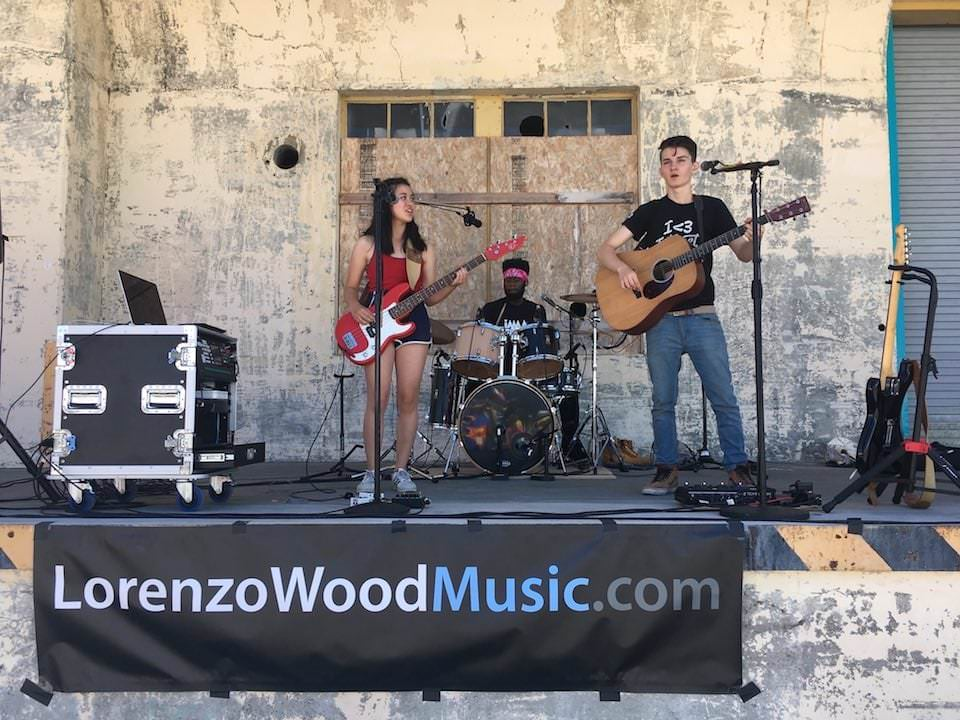
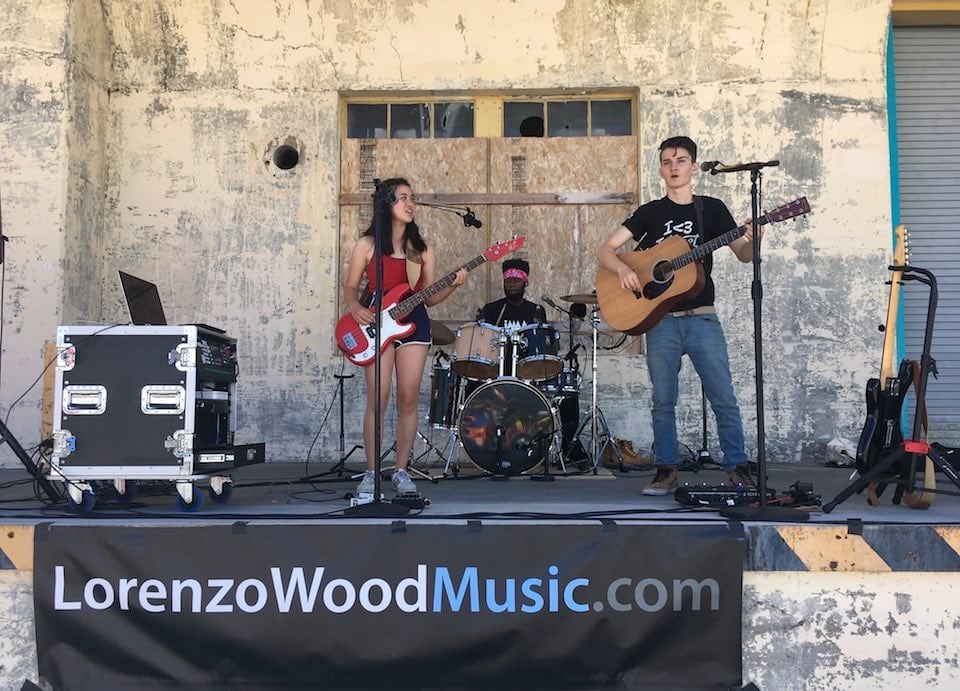
rearrange photos. Crop one of them.

diff --git a/photos/index.html b/photos/index.html
@@ -1,5 +1,5 @@
 <!DOCTYPE html><html class="no-js" lang="en-us"><head><meta charset="utf-8"><!--[if IE]><meta http-equiv='X-UA-Compatible' content='IE=edge'><![endif]--><title>Photos | Lorenzo Wood Music</title><meta name="description" content="Photos of Lorenzo Wood, musician from the San Francisco Bay Area"><meta name="viewport" content="width=device-width, initial-scale=1.0, viewport-fit=cover"><link rel="apple-touch-icon" href="icon.png"><link rel="stylesheet" href="/css/main.022319000006.css"></head><body class="Photos"><!--[if lt IE 9]><p class="browserupgrade">You are using an <strong>outdated</strong> browser. Please
-<a href="http://browsehappy.com/">upgrade your browser</a> to improve your experience.</p><![endif]--><input id="navigation" type="checkbox"><label class="hamburger" for="navigation"><svg xmlns="http://www.w3.org/2000/svg" viewBox="0 0 32 32"><desc>Show Menu</desc><path d="M4 10h24a2 2 0 0 0 0-4H4a2 2 0 0 0 0 4zm24 4H4a2 2 0 0 0 0 4h24a2 2 0 0 0 0-4zm0 8H4a2 2 0 0 0 0 4h24a2 2 0 0 0 0-4z"/></svg></label><header id="main-header"><h1 class="ir">Lorenzo Wood Music</h1><div class="logo"><svg viewBox="0 0 846 73" aria-label="Lorenzo Wood Music" xmlns="http://www.w3.org/2000/svg"><g fill="none" fill-rule="evenodd"><path d="M.1 71V3.6h12.3v57.1h27.7V71H.1zm69.8-49.8c14.5 0 24.2 10.2 24.2 25 0 17.9-12.6 25.9-25 25.9-13.8 0-24.4-9.5-24.4-25.1 0-16 10.5-25.8 25.2-25.8zm-.3 9c-8.7 0-12.2 8.4-12.2 16.5 0 9.4 4.6 16.5 12.1 16.5 7 0 11.9-6.9 11.9-16.7 0-7.6-3.4-16.3-11.8-16.3zM104.2 71V38c0-6.6-.1-11.3-.4-15.7h10.7l.4 9.3h.4c2.4-6.9 8.1-10.4 13.3-10.4 1.2 0 1.9.1 2.9.3v11.6c-1-.2-2.1-.4-3.6-.4-5.9 0-9.9 3.8-11 9.3-.2 1.1-.4 2.4-.4 3.8V71h-12.3zm76-20.9h-32.6c.3 8.8 7.2 12.6 15 12.6 5.7 0 9.8-.8 13.5-2.2l1.8 8.5c-4.2 1.7-10 3-17 3-15.8 0-25.1-9.7-25.1-24.6 0-13.5 8.2-26.2 23.8-26.2 15.8 0 21 13 21 23.7 0 2.3-.2 4.1-.4 5.2zm-32.6-8.6H169c.1-4.5-1.9-11.9-10.1-11.9-7.6 0-10.8 6.9-11.3 11.9zM190.5 71V36.8c0-5.6-.1-10.3-.4-14.5h10.8l.6 7.3h.3c2.1-3.8 7.4-8.4 15.5-8.4 8.5 0 17.3 5.5 17.3 20.9V71h-12.3V43.5c0-7-2.6-12.3-9.3-12.3-4.9 0-8.3 3.5-9.6 7.2-.4 1.1-.5 2.6-.5 4V71h-12.4zm52.6 0v-7.1l18.3-23.4c2.5-3 4.6-5.4 7.2-8.2v-.2h-23.7v-9.8h38.7v7.5l-17.9 22.9c-2.4 2.9-4.7 5.7-7.2 8.3v.2h25.7V71h-41.1zm71-49.8c14.5 0 24.2 10.2 24.2 25 0 17.9-12.6 25.9-25 25.9-13.8 0-24.4-9.5-24.4-25.1 0-16 10.5-25.8 25.2-25.8zm-.3 9c-8.7 0-12.2 8.4-12.2 16.5 0 9.4 4.6 16.5 12.1 16.5 7 0 11.9-6.9 11.9-16.7 0-7.6-3.4-16.3-11.8-16.3zM373.1 71h-13.3L343.3 3.6h13.1l6.4 30.6c1.7 8.2 3.3 16.8 4.4 23.5h.2c1.1-7.1 3-15.1 4.9-23.6l7.3-30.5h12.9l6.7 31c1.7 8 3.1 15.5 4.1 22.8h.2c1.2-7.4 2.8-15.1 4.6-23.3l7-30.5h12.5L409.5 71h-13.2l-7-31.7c-1.7-7.7-2.9-14.1-3.7-21.4h-.2c-1.2 7.2-2.5 13.7-4.5 21.4L373.1 71zm80.5-49.8c14.5 0 24.2 10.2 24.2 25 0 17.9-12.6 25.9-25 25.9-13.8 0-24.4-9.5-24.4-25.1 0-16 10.5-25.8 25.2-25.8zm-.3 9c-8.7 0-12.2 8.4-12.2 16.5 0 9.4 4.6 16.5 12.1 16.5 7 0 11.9-6.9 11.9-16.7 0-7.6-3.4-16.3-11.8-16.3zm56.7-9c14.5 0 24.2 10.2 24.2 25 0 17.9-12.6 25.9-25 25.9-13.8 0-24.4-9.5-24.4-25.1 0-16 10.5-25.8 25.2-25.8zm-.3 9c-8.7 0-12.2 8.4-12.2 16.5 0 9.4 4.6 16.5 12.1 16.5 7 0 11.9-6.9 11.9-16.7 0-7.6-3.4-16.3-11.8-16.3zM576.9 0h12.3v57.3c0 5 .2 10.4.4 13.7h-11l-.5-7.7h-.2c-2.9 5.4-8.8 8.8-15.9 8.8-11.6 0-20.8-9.9-20.8-24.9-.1-16.3 10.1-26 21.8-26 6.7 0 11.5 2.8 13.7 6.4h.2V0zm0 49.9v-7.3c0-1-.1-2.2-.3-3.2-1.1-4.8-5-8.7-10.6-8.7-7.9 0-12.3 7-12.3 16.1 0 8.9 4.4 15.4 12.2 15.4 5 0 9.4-3.4 10.6-8.7.3-1.1.4-2.3.4-3.6z" fill="#FFF"/><path d="M661.3 71L660 43.5c-.4-8.7-.9-19.2-.8-28.3h-.3c-2.2 8.2-5 17.3-8 25.8l-9.8 29.2h-9.5l-9-28.8c-2.6-8.6-5-17.8-6.8-26.2h-.2c-.3 8.8-.7 19.5-1.2 28.7L612.9 71h-11.5l4.5-67.4h16.2l8.8 27.1c2.4 7.9 4.5 15.9 6.2 23.4h.3c1.8-7.3 4.1-15.6 6.7-23.5l9.3-27h16l3.9 67.4h-12zm67.6-48.7v34.1c0 5.8.2 10.6.4 14.6h-10.8l-.6-7.4h-.2c-2.1 3.5-6.9 8.5-15.6 8.5-8.9 0-17-5.3-17-21.2V22.3h12.3v26.5c0 8.1 2.6 13.3 9.1 13.3 4.9 0 8.1-3.5 9.4-6.6.4-1.1.7-2.4.7-3.8V22.3h12.3zm10.3 46.3l2.4-8.9c2.8 1.7 8.1 3.5 12.5 3.5 5.4 0 7.8-2.2 7.8-5.4 0-3.3-2-5-8-7.1-9.5-3.3-13.5-8.5-13.4-14.2 0-8.6 7.1-15.3 18.4-15.3 5.4 0 10.1 1.4 12.9 2.9l-2.4 8.7c-2.1-1.2-6-2.8-10.3-2.8-4.4 0-6.8 2.1-6.8 5.1 0 3.1 2.3 4.6 8.5 6.8 8.8 3.2 12.9 7.7 13 14.9 0 8.8-6.9 15.2-19.8 15.2-5.9 0-11.2-1.4-14.8-3.4zm57.1 2.4h-12.4V22.3h12.4V71zm-6.2-69c4.2 0 6.8 2.9 6.9 6.7 0 3.7-2.7 6.6-7 6.6-4.1 0-6.8-2.9-6.8-6.6 0-3.8 2.8-6.7 6.9-6.7zm53.5 58.4l1.7 9.1c-2.6 1.2-7.7 2.5-13.8 2.5-15.2 0-25.1-9.7-25.1-24.8 0-14.6 10-26 27.1-26 4.5 0 9.1 1 11.9 2.3l-2.2 9.2c-2-.9-4.9-1.9-9.3-1.9-9.4 0-15 6.9-14.9 15.8 0 10 6.5 15.7 14.9 15.7 4.3 0 7.3-.9 9.7-1.9z" fill="#62B1DE"/></g></svg></div><nav class="page-menu"><ul><li><a href="/">Home</a></li><li><a class="active" href="/photos/">Photos</a></li><li><a href="/videos/">Videos</a></li><li><a href="/booking/">Booking</a></li></ul></nav></header><main><section><p><i>Photos may be used by the press; click to get larger version. Please credit photographers listed in file names.</i></p><article class="masonry"><a target="_BLANK" href="orig/Lorenzo Wood 8974.jpg"><img class="item" src="Lorenzo Wood 8974.jpg" alt="Lorenzo Wood Music" title=""></a><a target="_BLANK" href="orig/Lorenzo Wood 0691.jpg"><img class="item" src="Lorenzo Wood 0691.jpg" alt="Lorenzo Wood Music" title="Lorenzo Wood busking in downtown San Francisco"></a><a target="_BLANK" href="orig/Lorenzo Wood 0221.jpg"><img class="item" src="Lorenzo Wood 0221.jpg" alt="Lorenzo Wood Music" title="Lorenzo Wood and band performing in Oakland"></a><a target="_BLANK" href="orig/Lorenzo Wood 9179.jpg"><img class="item" src="Lorenzo Wood 9179.jpg" alt="Lorenzo Wood Music" title="Lorenzo Wood and band performing in Oakland"></a><a target="_BLANK" href="orig/Lorenzo Wood 4965.jpg"><img class="item" src="Lorenzo Wood 4965.jpg" alt="Lorenzo Wood Music" title="Lorenzo Wood and band at Alameda Mini Maker Faire, 2018"></a><a target="_BLANK" href="orig/Lorenzo Wood 8967.jpg"><img class="item" src="Lorenzo Wood 8967.jpg" alt="Lorenzo Wood Music" title=""></a><a target="_BLANK" href="orig/Lorenzo Wood Photo Credit Dave Weiland 02.jpg"><img class="item" src="Lorenzo Wood Photo Credit Dave Weiland 02.jpg" alt="Lorenzo Wood Music" title=""></a><a target="_BLANK" href="orig/Lorenzo Wood 9651.jpg"><img class="item" src="Lorenzo Wood 9651.jpg" alt="Lorenzo Wood Music" title="Lorenzo Wood performing at Alameda Mini Maker Faire, 2018"></a><a target="_BLANK" href="orig/Lorenzo Wood Photo Credit Claire Ashcraft 42.jpg"><img class="item" src="Lorenzo Wood Photo Credit Claire Ashcraft 42.jpg" alt="Lorenzo Wood Music" title=""></a><a target="_BLANK" href="orig/Lorenzo Wood 9286.jpg"><img class="item" src="Lorenzo Wood 9286.jpg" alt="Lorenzo Wood Music" title="Lorenzo Wood and band performing in Alameda"></a><a target="_BLANK" href="orig/Lorenzo Wood Photo Credit Claire Ashcraft 11.jpg"><img class="item" src="Lorenzo Wood Photo Credit Claire Ashcraft 11.jpg" alt="Lorenzo Wood Music" title=""></a><a target="_BLANK" href="orig/Lorenzo Wood 9023.jpg"><img class="item" src="Lorenzo Wood 9023.jpg" alt="Lorenzo Wood Music" title=""></a><a target="_BLANK" href="orig/Lorenzo Wood 9073.jpg"><img class="item" src="Lorenzo Wood 9073.jpg" alt="Lorenzo Wood Music" title=""></a><a target="_BLANK" href="orig/Lorenzo Wood 8901.jpg"><img class="item" src="Lorenzo Wood 8901.jpg" alt="Lorenzo Wood Music" title=""></a><a target="_BLANK" href="orig/Lorenzo Wood Photo Credit Dave Weiland 01.jpg"><img class="item" src="Lorenzo Wood Photo Credit Dave Weiland 01.jpg" alt="Lorenzo Wood Music" title=""></a><a target="_BLANK" href="orig/Lorenzo Wood 9111.jpg"><img class="item" src="Lorenzo Wood 9111.jpg" alt="Lorenzo Wood Music" title="Lorenzo Wood and band"></a><a target="_BLANK" href="orig/Lorenzo Wood 8915.jpg"><img class="item" src="Lorenzo Wood 8915.jpg" alt="Lorenzo Wood Music" title=""></a><a target="_BLANK" href="orig/Lorenzo Wood Photo Credit Claire Ashcraft 44.jpg"><img class="item" src="Lorenzo Wood Photo Credit Claire Ashcraft 44.jpg" alt="Lorenzo Wood Music" title=""></a><a target="_BLANK" href="orig/Lorenzo Wood Photo Credit Nikki Maguire 7176.jpg"><img class="item" src="Lorenzo Wood Photo Credit Nikki Maguire 7176.jpg" alt="Lorenzo Wood Music" title="Lorenzo Wood on the Blue Lodge stage at the Bear Music Festival"></a><a target="_BLANK" href="orig/Lorenzo Wood Photo Credit Claire Ashcraft 53.jpg"><img class="item" src="Lorenzo Wood Photo Credit Claire Ashcraft 53.jpg" alt="Lorenzo Wood Music" title="Lorenzo Wood with the USS Hornet in the background"></a><a target="_BLANK" href="orig/Lorenzo Wood 9604.jpg"><img class="item" src="Lorenzo Wood 9604.jpg" alt="Lorenzo Wood Music" title="Lorenzo Wood and @maddieb_music performing at Alameda County Fair"></a><a target="_BLANK" href="orig/Lorenzo Wood Photo Credit Claire Ashcraft 33.jpg"><img class="item" src="Lorenzo Wood Photo Credit Claire Ashcraft 33.jpg" alt="Lorenzo Wood Music" title=""></a><a target="_BLANK" href="orig/Lorenzo Wood 9560.jpg"><img class="item" src="Lorenzo Wood 9560.jpg" alt="Lorenzo Wood Music" title="Lorenzo Wood performing at Alameda County Fair"></a><a target="_BLANK" href="orig/Lorenzo Wood 4546.jpg"><img class="item" src="Lorenzo Wood 4546.jpg" alt="Lorenzo Wood Music" title=""></a><a target="_BLANK" href="orig/Lorenzo Wood Photo Credit Claire Ashcraft 43.jpg"><img class="item" src="Lorenzo Wood Photo Credit Claire Ashcraft 43.jpg" alt="Lorenzo Wood Music" title=""></a><a target="_BLANK" href="orig/Lorenzo Wood 0478.jpg"><img class="item" src="Lorenzo Wood 0478.jpg" alt="Lorenzo Wood Music" title=""></a><a target="_BLANK" href="orig/Lorenzo Wood 6135.jpg"><img class="item" src="Lorenzo Wood 6135.jpg" alt="Lorenzo Wood Music" title="Lorenzo Wood onstage at The Starry Plough, Berkeley"></a><a target="_BLANK" href="orig/Lorenzo Wood Photo Credit Claire Ashcraft 22.jpg"><img class="item" src="Lorenzo Wood Photo Credit Claire Ashcraft 22.jpg" alt="Lorenzo Wood Music" title=""></a></article></section></main><footer><div class="icons exhaustive safe-area-only"><a data-title="Instagram" href="https://instagram.com/LorenzoWoodMusic"><svg aria-label="Instagram" xmlns="http://www.w3.org/2000/svg" viewBox="0 0 24 24"><desc>Lorenzo Wood Music on Instagram</desc><path fill="#e95950" d="M12 2.16c3.2 0 3.58.01 4.85.07 3.25.15 4.77 1.7 4.92 4.92.06 1.27.07 1.65.07 4.85 0 3.2-.01 3.58-.07 4.85-.15 3.23-1.66 4.77-4.92 4.92-1.27.06-1.64.07-4.85.07a83 83 0 0 1-4.85-.07c-3.26-.15-4.77-1.7-4.92-4.92A82.98 82.98 0 0 1 2.16 12a84 84 0 0 1 .07-4.85c.15-3.23 1.67-4.77 4.92-4.92A84.4 84.4 0 0 1 12 2.16zM12 0C8.74 0 8.33.01 7.05.07 2.7.27.27 2.7.07 7.05A84.29 84.29 0 0 0 0 12c0 3.26.01 3.67.07 4.95.2 4.36 2.62 6.78 6.98 6.98 1.28.06 1.7.07 4.95.07 3.26 0 3.67-.01 4.95-.07 4.35-.2 6.78-2.62 6.98-6.98.06-1.28.07-1.7.07-4.95 0-3.26-.01-3.67-.07-4.95C23.73 2.7 21.3.27 16.95.07A84.33 84.33 0 0 0 12 0zm0 5.84a6.16 6.16 0 1 0 0 12.32 6.16 6.16 0 0 0 0-12.32zM12 16a4 4 0 1 1 0-8 4 4 0 0 1 0 8zm6.4-11.85a1.44 1.44 0 1 0 0 2.89 1.44 1.44 0 0 0 0-2.89z"/></svg></a><a data-title="Facebook" href="https://facebook.com/LorenzoWoodMusic"><svg aria-label="Facebook" xmlns="http://www.w3.org/2000/svg" viewBox="0 0 24 24"><desc>Lorenzo Wood Music on Facebook</desc><path fill="#3b5998" d="M22.68 0H1.32C.6 0 0 .6 0 1.32v21.36C0 23.4.6 24 1.32 24h11.5v-9.3H9.69v-3.62h3.13V8.41c0-3.1 1.9-4.79 4.66-4.79 1.32 0 2.46.1 2.8.15V7h-1.92c-1.5 0-1.8.71-1.8 1.76v2.32h3.59l-.47 3.62h-3.12V24h6.12c.73 0 1.32-.6 1.32-1.32V1.32C24 .6 23.4 0 22.68 0z"/></svg></a><a data-title="Snapchat" href="https://www.snapchat.com/add/lorenzo.wood"><svg aria-label="Snapchat" xmlns="http://www.w3.org/2000/svg" viewBox="0 0 24 24"><desc>Lorenzo Wood Music on Snapchat</desc><path d="M5.83 4.53c-.6 1.35-.36 3.75-.27 5.44-.65.36-1.48-.27-1.95-.27-.49 0-1.07.32-1.17.8-.06.35.1.85 1.2 1.29.43.17 1.46.37 1.7.93.33.78-1.72 4.4-4.92 4.93a.5.5 0 0 0-.42.52c.06.97 2.24 1.35 3.21 1.5.1.14.18.7.3 1.13.06.2.21.43.59.43.5 0 1.31-.38 2.74-.15 1.4.24 2.71 2.22 5.23 2.22 2.35 0 3.75-2 5.1-2.21a5.89 5.89 0 0 1 2.19.05c.51.1.98.16 1.12-.35.13-.43.21-.99.3-1.12.97-.15 3.16-.53 3.22-1.5a.5.5 0 0 0-.42-.52c-3.15-.52-5.26-4.13-4.92-4.93.24-.56 1.26-.76 1.7-.93.8-.32 1.22-.72 1.2-1.17 0-.59-.7-.94-1.22-.94-.53 0-1.29.63-1.9.29.1-1.7.33-4.1-.27-5.44A6.64 6.64 0 0 0 12 .7a6.6 6.6 0 0 0-6.16 3.83z" fill="#fffc00"/></svg></a><a data-title="Twitter" href="https://twitter.com/lorenzowmusic"><svg aria-label="Twitter" xmlns="http://www.w3.org/2000/svg" viewBox="0 0 24 24"><desc>Lorenzo Wood Music on Twitter</desc><path fill="#55acee" d="M24 4.56c-.88.39-1.83.65-2.83.77a4.93 4.93 0 0 0 2.17-2.72c-.95.56-2 .97-3.13 1.2a4.92 4.92 0 0 0-8.4 4.48A13.9 13.9 0 0 1 1.68 3.15 4.93 4.93 0 0 0 3.2 9.72a4.9 4.9 0 0 1-2.23-.61A4.93 4.93 0 0 0 4.91 14a5 5 0 0 1-2.22.08 4.93 4.93 0 0 0 4.6 3.42A9.9 9.9 0 0 1 0 19.54a13.94 13.94 0 0 0 7.55 2.21c9.14 0 14.3-7.72 14-14.64.95-.7 1.79-1.57 2.45-2.55z"/></svg></a><a data-title="YouTube" href="https://www.youtube.com/lorenzowoodmusic"><svg aria-label="YouTube" xmlns="http://www.w3.org/2000/svg" viewBox="0 0 24 24"><desc>Lorenzo Wood Music on YouTube</desc><path fill="#b00" d="M4.65 0H6.1l.99 3.7L8 0h1.45L7.79 5.5v3.76H6.35V5.51L4.65 0zm6.6 2.37c-1.12 0-1.86.74-1.86 1.84v3.35c0 1.2.62 1.83 1.86 1.83 1.02 0 1.82-.69 1.82-1.83V4.2c0-1.07-.8-1.84-1.82-1.84zm.53 5.13c0 .37-.2.65-.53.65-.36 0-.56-.3-.56-.65V4.32c0-.37.17-.65.53-.65.39 0 .56.27.56.65V7.5zm4.73-5.07v5.19c-.16.19-.5.5-.75.5-.27 0-.34-.18-.34-.45V2.43h-1.27v5.71c0 .68.2 1.22.89 1.22.38 0 .92-.2 1.47-.85v.75h1.27V2.43H16.5zm2.2 13.86c-.45 0-.54.31-.54.76v.66h1.07v-.66c0-.44-.1-.76-.53-.76zm-4.7.04a.93.93 0 0 0-.25.2v4.05c.1.1.19.18.28.23.2.1.49.1.62-.07.07-.09.1-.24.1-.45v-3.36a.82.82 0 0 0-.12-.5c-.15-.19-.42-.2-.63-.1zm4.82-5.2a183 183 0 0 0-13.66 0c-2.82.2-3.15 1.9-3.17 6.37.02 4.47.35 6.17 3.17 6.37a183 183 0 0 0 13.66 0c2.82-.2 3.15-1.9 3.17-6.37-.02-4.47-.35-6.17-3.17-6.37zM6.51 21.82H5.15v-7.54H3.74V13h4.18v1.28H6.5v7.54zm4.84 0h-1.2v-.72c-.23.27-.46.47-.7.6-.65.38-1.55.37-1.55-.95v-5.44h1.21v5c0 .25.06.43.32.43.24 0 .57-.3.71-.49v-4.94h1.21v6.5zm4.66-1.35c0 .8-.3 1.43-1.1 1.43-.45 0-.82-.16-1.15-.58v.5h-1.22V13h1.22v2.84c.27-.33.64-.6 1.07-.6.89 0 1.18.74 1.18 1.62v3.61zm4.47-1.75h-2.31v1.23c0 .49.04.9.53.9.5 0 .54-.34.54-.9v-.45h1.24v.48c0 1.26-.53 2.02-1.81 2.02-1.16 0-1.75-.85-1.75-2.02v-2.92c0-1.13.75-1.91 1.84-1.91 1.16 0 1.72.74 1.72 1.91v1.66z"/></svg></a><a data-title="SoundCloud" href="https://soundcloud.com/LorenzoWoodMusic"><svg aria-label="SoundCloud" xmlns="http://www.w3.org/2000/svg" viewBox="0 0 24 24"><desc>Lorenzo Wood Music on SoundCloud</desc><path fill="#f50" d="M7 17.94H6V9.87c.3-.23.64-.43 1-.56v8.63zm3 0h1V8.7c-.23.27-.44.55-.62.86L10 9.4v8.55zm-2 0h1V9.09c-.5-.08-.62-.05-1 0v8.85zm-4 0h1v-7.02a4.7 4.7 0 0 0-.7 1.53l-.3-.18v5.67zm-3-5.25a3.07 3.07 0 0 0 0 4.53V12.7zm18.88-.67c-.2-2.84-2.4-5.08-5.12-5.08-1.02 0-1.96.33-2.76.88v10.12h9.09c1.6 0 2.91-1.4 2.91-3.1 0-2.24-2.17-3.78-4.12-2.82zM3 11.99c-.3-.02-.53-.03-1 .12v5.7c.45.14.64.13 1 .13v-5.95z"/></svg></a><a data-title="Reverb Nation" href="https://www.reverbnation.com/lorenzowoodmusic"><svg aria-label="ReberbNation" xmlns="http://www.w3.org/2000/svg" viewBox="0 0 24 24"><desc>Lorenzo Wood Music on ReverbNation</desc><ellipse cx="12" cy="12" rx="12" ry="12" fill="#DB9834"/><path d="M17.95 10.72l-2.84 5.06.63 2.07L12.75 24s-5.23.64-8.9-3.2C.17 16.96.07 14.02.07 14.02l11.89-7.68.08 5.52 5.91-1.14z" fill="#A37122"/><path d="M8.3 17.89l3.72-2.75 3.72 2.75-1.42-4.45 3.71-2.75h-4.59l-1.42-4.44-1.42 4.44H6.01l3.72 2.75L8.3 17.9z" fill="#FFF"/></svg></a><a data-title="Bands in Town" href="https://bandsintown.com/lorenzowoodmusic"><svg aria-label="Bands in Town" xmlns="http://www.w3.org/2000/svg" viewBox="0 0 24 24"><desc>Lorenzo Wood Music on Bands in Town</desc><path fill="#00AEA8" d="M0 0h24v24H0z"/><path fill="#FFF" d="M12.5 7.5h4v5h-4zm4.5-5h4v10h-4z"/><path d="M3.5 3v18.5H21V13H8v4h9v.5H7.5V3h-4z" fill="#FFF"/><path fill="#FFF" d="M8 7.5h4v5H8z"/></svg></a></div><p><b>Copyright © 2017-2019 Lorenzo Wood</b><span class="dimmer">&nbsp; Photo credits: Claire Ashcraft, Nikki Maguire, Dave Weiland (See individual file names), Lucy Gigli (if not specified in file name)</span></p><p class="js-required">JavaScript is disabled in your browser; please enable it to see missing content.
+<a href="http://browsehappy.com/">upgrade your browser</a> to improve your experience.</p><![endif]--><input id="navigation" type="checkbox"><label class="hamburger" for="navigation"><svg xmlns="http://www.w3.org/2000/svg" viewBox="0 0 32 32"><desc>Show Menu</desc><path d="M4 10h24a2 2 0 0 0 0-4H4a2 2 0 0 0 0 4zm24 4H4a2 2 0 0 0 0 4h24a2 2 0 0 0 0-4zm0 8H4a2 2 0 0 0 0 4h24a2 2 0 0 0 0-4z"/></svg></label><header id="main-header"><h1 class="ir">Lorenzo Wood Music</h1><div class="logo"><svg viewBox="0 0 846 73" aria-label="Lorenzo Wood Music" xmlns="http://www.w3.org/2000/svg"><g fill="none" fill-rule="evenodd"><path d="M.1 71V3.6h12.3v57.1h27.7V71H.1zm69.8-49.8c14.5 0 24.2 10.2 24.2 25 0 17.9-12.6 25.9-25 25.9-13.8 0-24.4-9.5-24.4-25.1 0-16 10.5-25.8 25.2-25.8zm-.3 9c-8.7 0-12.2 8.4-12.2 16.5 0 9.4 4.6 16.5 12.1 16.5 7 0 11.9-6.9 11.9-16.7 0-7.6-3.4-16.3-11.8-16.3zM104.2 71V38c0-6.6-.1-11.3-.4-15.7h10.7l.4 9.3h.4c2.4-6.9 8.1-10.4 13.3-10.4 1.2 0 1.9.1 2.9.3v11.6c-1-.2-2.1-.4-3.6-.4-5.9 0-9.9 3.8-11 9.3-.2 1.1-.4 2.4-.4 3.8V71h-12.3zm76-20.9h-32.6c.3 8.8 7.2 12.6 15 12.6 5.7 0 9.8-.8 13.5-2.2l1.8 8.5c-4.2 1.7-10 3-17 3-15.8 0-25.1-9.7-25.1-24.6 0-13.5 8.2-26.2 23.8-26.2 15.8 0 21 13 21 23.7 0 2.3-.2 4.1-.4 5.2zm-32.6-8.6H169c.1-4.5-1.9-11.9-10.1-11.9-7.6 0-10.8 6.9-11.3 11.9zM190.5 71V36.8c0-5.6-.1-10.3-.4-14.5h10.8l.6 7.3h.3c2.1-3.8 7.4-8.4 15.5-8.4 8.5 0 17.3 5.5 17.3 20.9V71h-12.3V43.5c0-7-2.6-12.3-9.3-12.3-4.9 0-8.3 3.5-9.6 7.2-.4 1.1-.5 2.6-.5 4V71h-12.4zm52.6 0v-7.1l18.3-23.4c2.5-3 4.6-5.4 7.2-8.2v-.2h-23.7v-9.8h38.7v7.5l-17.9 22.9c-2.4 2.9-4.7 5.7-7.2 8.3v.2h25.7V71h-41.1zm71-49.8c14.5 0 24.2 10.2 24.2 25 0 17.9-12.6 25.9-25 25.9-13.8 0-24.4-9.5-24.4-25.1 0-16 10.5-25.8 25.2-25.8zm-.3 9c-8.7 0-12.2 8.4-12.2 16.5 0 9.4 4.6 16.5 12.1 16.5 7 0 11.9-6.9 11.9-16.7 0-7.6-3.4-16.3-11.8-16.3zM373.1 71h-13.3L343.3 3.6h13.1l6.4 30.6c1.7 8.2 3.3 16.8 4.4 23.5h.2c1.1-7.1 3-15.1 4.9-23.6l7.3-30.5h12.9l6.7 31c1.7 8 3.1 15.5 4.1 22.8h.2c1.2-7.4 2.8-15.1 4.6-23.3l7-30.5h12.5L409.5 71h-13.2l-7-31.7c-1.7-7.7-2.9-14.1-3.7-21.4h-.2c-1.2 7.2-2.5 13.7-4.5 21.4L373.1 71zm80.5-49.8c14.5 0 24.2 10.2 24.2 25 0 17.9-12.6 25.9-25 25.9-13.8 0-24.4-9.5-24.4-25.1 0-16 10.5-25.8 25.2-25.8zm-.3 9c-8.7 0-12.2 8.4-12.2 16.5 0 9.4 4.6 16.5 12.1 16.5 7 0 11.9-6.9 11.9-16.7 0-7.6-3.4-16.3-11.8-16.3zm56.7-9c14.5 0 24.2 10.2 24.2 25 0 17.9-12.6 25.9-25 25.9-13.8 0-24.4-9.5-24.4-25.1 0-16 10.5-25.8 25.2-25.8zm-.3 9c-8.7 0-12.2 8.4-12.2 16.5 0 9.4 4.6 16.5 12.1 16.5 7 0 11.9-6.9 11.9-16.7 0-7.6-3.4-16.3-11.8-16.3zM576.9 0h12.3v57.3c0 5 .2 10.4.4 13.7h-11l-.5-7.7h-.2c-2.9 5.4-8.8 8.8-15.9 8.8-11.6 0-20.8-9.9-20.8-24.9-.1-16.3 10.1-26 21.8-26 6.7 0 11.5 2.8 13.7 6.4h.2V0zm0 49.9v-7.3c0-1-.1-2.2-.3-3.2-1.1-4.8-5-8.7-10.6-8.7-7.9 0-12.3 7-12.3 16.1 0 8.9 4.4 15.4 12.2 15.4 5 0 9.4-3.4 10.6-8.7.3-1.1.4-2.3.4-3.6z" fill="#FFF"/><path d="M661.3 71L660 43.5c-.4-8.7-.9-19.2-.8-28.3h-.3c-2.2 8.2-5 17.3-8 25.8l-9.8 29.2h-9.5l-9-28.8c-2.6-8.6-5-17.8-6.8-26.2h-.2c-.3 8.8-.7 19.5-1.2 28.7L612.9 71h-11.5l4.5-67.4h16.2l8.8 27.1c2.4 7.9 4.5 15.9 6.2 23.4h.3c1.8-7.3 4.1-15.6 6.7-23.5l9.3-27h16l3.9 67.4h-12zm67.6-48.7v34.1c0 5.8.2 10.6.4 14.6h-10.8l-.6-7.4h-.2c-2.1 3.5-6.9 8.5-15.6 8.5-8.9 0-17-5.3-17-21.2V22.3h12.3v26.5c0 8.1 2.6 13.3 9.1 13.3 4.9 0 8.1-3.5 9.4-6.6.4-1.1.7-2.4.7-3.8V22.3h12.3zm10.3 46.3l2.4-8.9c2.8 1.7 8.1 3.5 12.5 3.5 5.4 0 7.8-2.2 7.8-5.4 0-3.3-2-5-8-7.1-9.5-3.3-13.5-8.5-13.4-14.2 0-8.6 7.1-15.3 18.4-15.3 5.4 0 10.1 1.4 12.9 2.9l-2.4 8.7c-2.1-1.2-6-2.8-10.3-2.8-4.4 0-6.8 2.1-6.8 5.1 0 3.1 2.3 4.6 8.5 6.8 8.8 3.2 12.9 7.7 13 14.9 0 8.8-6.9 15.2-19.8 15.2-5.9 0-11.2-1.4-14.8-3.4zm57.1 2.4h-12.4V22.3h12.4V71zm-6.2-69c4.2 0 6.8 2.9 6.9 6.7 0 3.7-2.7 6.6-7 6.6-4.1 0-6.8-2.9-6.8-6.6 0-3.8 2.8-6.7 6.9-6.7zm53.5 58.4l1.7 9.1c-2.6 1.2-7.7 2.5-13.8 2.5-15.2 0-25.1-9.7-25.1-24.8 0-14.6 10-26 27.1-26 4.5 0 9.1 1 11.9 2.3l-2.2 9.2c-2-.9-4.9-1.9-9.3-1.9-9.4 0-15 6.9-14.9 15.8 0 10 6.5 15.7 14.9 15.7 4.3 0 7.3-.9 9.7-1.9z" fill="#62B1DE"/></g></svg></div><nav class="page-menu"><ul><li><a href="/">Home</a></li><li><a class="active" href="/photos/">Photos</a></li><li><a href="/videos/">Videos</a></li><li><a href="/booking/">Booking</a></li></ul></nav></header><main><section><p><i>Photos may be used by the press; click to get larger version. Please credit photographers listed in file names.</i></p><article class="masonry"><a target="_BLANK" href="orig/Lorenzo Wood 0221.jpg"><img class="item" src="Lorenzo Wood 0221.jpg" alt="Lorenzo Wood Music" title="Lorenzo Wood and band performing in Alameda"></a><a target="_BLANK" href="orig/Lorenzo Wood Photo Credit Dave Weiland 02.jpg"><img class="item" src="Lorenzo Wood Photo Credit Dave Weiland 02.jpg" alt="Lorenzo Wood Music" title=""></a><a target="_BLANK" href="orig/Lorenzo Wood 8974.jpg"><img class="item" src="Lorenzo Wood 8974.jpg" alt="Lorenzo Wood Music" title=""></a><a target="_BLANK" href="orig/Lorenzo Wood 4965.jpg"><img class="item" src="Lorenzo Wood 4965.jpg" alt="Lorenzo Wood Music" title="Lorenzo Wood and band at Alameda Mini Maker Faire, 2018"></a><a target="_BLANK" href="orig/Lorenzo Wood 8915.jpg"><img class="item" src="Lorenzo Wood 8915.jpg" alt="Lorenzo Wood Music" title=""></a><a target="_BLANK" href="orig/Lorenzo Wood 6135.jpg"><img class="item" src="Lorenzo Wood 6135.jpg" alt="Lorenzo Wood Music" title="Lorenzo Wood onstage at The Starry Plough, Berkeley"></a><a target="_BLANK" href="orig/Lorenzo Wood 0691.jpg"><img class="item" src="Lorenzo Wood 0691.jpg" alt="Lorenzo Wood Music" title="Lorenzo Wood busking in downtown San Francisco"></a><a target="_BLANK" href="orig/Lorenzo Wood 9179.jpg"><img class="item" src="Lorenzo Wood 9179.jpg" alt="Lorenzo Wood Music" title="Lorenzo Wood and band performing in Oakland"></a><a target="_BLANK" href="orig/Lorenzo Wood 8967.jpg"><img class="item" src="Lorenzo Wood 8967.jpg" alt="Lorenzo Wood Music" title=""></a><a target="_BLANK" href="orig/Lorenzo Wood 9651.jpg"><img class="item" src="Lorenzo Wood 9651.jpg" alt="Lorenzo Wood Music" title="Lorenzo Wood performing at Alameda Mini Maker Faire, 2018"></a><a target="_BLANK" href="orig/Lorenzo Wood Photo Credit Claire Ashcraft 42.jpg"><img class="item" src="Lorenzo Wood Photo Credit Claire Ashcraft 42.jpg" alt="Lorenzo Wood Music" title=""></a><a target="_BLANK" href="orig/Lorenzo Wood 9286.jpg"><img class="item" src="Lorenzo Wood 9286.jpg" alt="Lorenzo Wood Music" title="Lorenzo Wood and band performing in Alameda"></a><a target="_BLANK" href="orig/Lorenzo Wood Photo Credit Claire Ashcraft 11.jpg"><img class="item" src="Lorenzo Wood Photo Credit Claire Ashcraft 11.jpg" alt="Lorenzo Wood Music" title=""></a><a target="_BLANK" href="orig/Lorenzo Wood 9023.jpg"><img class="item" src="Lorenzo Wood 9023.jpg" alt="Lorenzo Wood Music" title=""></a><a target="_BLANK" href="orig/Lorenzo Wood 9073.jpg"><img class="item" src="Lorenzo Wood 9073.jpg" alt="Lorenzo Wood Music" title=""></a><a target="_BLANK" href="orig/Lorenzo Wood 8901.jpg"><img class="item" src="Lorenzo Wood 8901.jpg" alt="Lorenzo Wood Music" title=""></a><a target="_BLANK" href="orig/Lorenzo Wood Photo Credit Dave Weiland 01.jpg"><img class="item" src="Lorenzo Wood Photo Credit Dave Weiland 01.jpg" alt="Lorenzo Wood Music" title=""></a><a target="_BLANK" href="orig/Lorenzo Wood 9111.jpg"><img class="item" src="Lorenzo Wood 9111.jpg" alt="Lorenzo Wood Music" title="Lorenzo Wood and band"></a><a target="_BLANK" href="orig/Lorenzo Wood Photo Credit Claire Ashcraft 44.jpg"><img class="item" src="Lorenzo Wood Photo Credit Claire Ashcraft 44.jpg" alt="Lorenzo Wood Music" title=""></a><a target="_BLANK" href="orig/Lorenzo Wood Photo Credit Nikki Maguire 7176.jpg"><img class="item" src="Lorenzo Wood Photo Credit Nikki Maguire 7176.jpg" alt="Lorenzo Wood Music" title="Lorenzo Wood on the Blue Lodge stage at the Bear Music Festival"></a><a target="_BLANK" href="orig/Lorenzo Wood Photo Credit Claire Ashcraft 53.jpg"><img class="item" src="Lorenzo Wood Photo Credit Claire Ashcraft 53.jpg" alt="Lorenzo Wood Music" title="Lorenzo Wood with the USS Hornet in the background"></a><a target="_BLANK" href="orig/Lorenzo Wood 9604.jpg"><img class="item" src="Lorenzo Wood 9604.jpg" alt="Lorenzo Wood Music" title="Lorenzo Wood and @maddieb_music performing at Alameda County Fair"></a><a target="_BLANK" href="orig/Lorenzo Wood Photo Credit Claire Ashcraft 33.jpg"><img class="item" src="Lorenzo Wood Photo Credit Claire Ashcraft 33.jpg" alt="Lorenzo Wood Music" title=""></a><a target="_BLANK" href="orig/Lorenzo Wood 9560.jpg"><img class="item" src="Lorenzo Wood 9560.jpg" alt="Lorenzo Wood Music" title="Lorenzo Wood performing at Alameda County Fair"></a><a target="_BLANK" href="orig/Lorenzo Wood 4546.jpg"><img class="item" src="Lorenzo Wood 4546.jpg" alt="Lorenzo Wood Music" title=""></a><a target="_BLANK" href="orig/Lorenzo Wood Photo Credit Claire Ashcraft 43.jpg"><img class="item" src="Lorenzo Wood Photo Credit Claire Ashcraft 43.jpg" alt="Lorenzo Wood Music" title=""></a><a target="_BLANK" href="orig/Lorenzo Wood 0478.jpg"><img class="item" src="Lorenzo Wood 0478.jpg" alt="Lorenzo Wood Music" title=""></a><a target="_BLANK" href="orig/Lorenzo Wood Photo Credit Claire Ashcraft 22.jpg"><img class="item" src="Lorenzo Wood Photo Credit Claire Ashcraft 22.jpg" alt="Lorenzo Wood Music" title=""></a></article></section></main><footer><div class="icons exhaustive safe-area-only"><a data-title="Instagram" href="https://instagram.com/LorenzoWoodMusic"><svg aria-label="Instagram" xmlns="http://www.w3.org/2000/svg" viewBox="0 0 24 24"><desc>Lorenzo Wood Music on Instagram</desc><path fill="#e95950" d="M12 2.16c3.2 0 3.58.01 4.85.07 3.25.15 4.77 1.7 4.92 4.92.06 1.27.07 1.65.07 4.85 0 3.2-.01 3.58-.07 4.85-.15 3.23-1.66 4.77-4.92 4.92-1.27.06-1.64.07-4.85.07a83 83 0 0 1-4.85-.07c-3.26-.15-4.77-1.7-4.92-4.92A82.98 82.98 0 0 1 2.16 12a84 84 0 0 1 .07-4.85c.15-3.23 1.67-4.77 4.92-4.92A84.4 84.4 0 0 1 12 2.16zM12 0C8.74 0 8.33.01 7.05.07 2.7.27.27 2.7.07 7.05A84.29 84.29 0 0 0 0 12c0 3.26.01 3.67.07 4.95.2 4.36 2.62 6.78 6.98 6.98 1.28.06 1.7.07 4.95.07 3.26 0 3.67-.01 4.95-.07 4.35-.2 6.78-2.62 6.98-6.98.06-1.28.07-1.7.07-4.95 0-3.26-.01-3.67-.07-4.95C23.73 2.7 21.3.27 16.95.07A84.33 84.33 0 0 0 12 0zm0 5.84a6.16 6.16 0 1 0 0 12.32 6.16 6.16 0 0 0 0-12.32zM12 16a4 4 0 1 1 0-8 4 4 0 0 1 0 8zm6.4-11.85a1.44 1.44 0 1 0 0 2.89 1.44 1.44 0 0 0 0-2.89z"/></svg></a><a data-title="Facebook" href="https://facebook.com/LorenzoWoodMusic"><svg aria-label="Facebook" xmlns="http://www.w3.org/2000/svg" viewBox="0 0 24 24"><desc>Lorenzo Wood Music on Facebook</desc><path fill="#3b5998" d="M22.68 0H1.32C.6 0 0 .6 0 1.32v21.36C0 23.4.6 24 1.32 24h11.5v-9.3H9.69v-3.62h3.13V8.41c0-3.1 1.9-4.79 4.66-4.79 1.32 0 2.46.1 2.8.15V7h-1.92c-1.5 0-1.8.71-1.8 1.76v2.32h3.59l-.47 3.62h-3.12V24h6.12c.73 0 1.32-.6 1.32-1.32V1.32C24 .6 23.4 0 22.68 0z"/></svg></a><a data-title="Snapchat" href="https://www.snapchat.com/add/lorenzo.wood"><svg aria-label="Snapchat" xmlns="http://www.w3.org/2000/svg" viewBox="0 0 24 24"><desc>Lorenzo Wood Music on Snapchat</desc><path d="M5.83 4.53c-.6 1.35-.36 3.75-.27 5.44-.65.36-1.48-.27-1.95-.27-.49 0-1.07.32-1.17.8-.06.35.1.85 1.2 1.29.43.17 1.46.37 1.7.93.33.78-1.72 4.4-4.92 4.93a.5.5 0 0 0-.42.52c.06.97 2.24 1.35 3.21 1.5.1.14.18.7.3 1.13.06.2.21.43.59.43.5 0 1.31-.38 2.74-.15 1.4.24 2.71 2.22 5.23 2.22 2.35 0 3.75-2 5.1-2.21a5.89 5.89 0 0 1 2.19.05c.51.1.98.16 1.12-.35.13-.43.21-.99.3-1.12.97-.15 3.16-.53 3.22-1.5a.5.5 0 0 0-.42-.52c-3.15-.52-5.26-4.13-4.92-4.93.24-.56 1.26-.76 1.7-.93.8-.32 1.22-.72 1.2-1.17 0-.59-.7-.94-1.22-.94-.53 0-1.29.63-1.9.29.1-1.7.33-4.1-.27-5.44A6.64 6.64 0 0 0 12 .7a6.6 6.6 0 0 0-6.16 3.83z" fill="#fffc00"/></svg></a><a data-title="Twitter" href="https://twitter.com/lorenzowmusic"><svg aria-label="Twitter" xmlns="http://www.w3.org/2000/svg" viewBox="0 0 24 24"><desc>Lorenzo Wood Music on Twitter</desc><path fill="#55acee" d="M24 4.56c-.88.39-1.83.65-2.83.77a4.93 4.93 0 0 0 2.17-2.72c-.95.56-2 .97-3.13 1.2a4.92 4.92 0 0 0-8.4 4.48A13.9 13.9 0 0 1 1.68 3.15 4.93 4.93 0 0 0 3.2 9.72a4.9 4.9 0 0 1-2.23-.61A4.93 4.93 0 0 0 4.91 14a5 5 0 0 1-2.22.08 4.93 4.93 0 0 0 4.6 3.42A9.9 9.9 0 0 1 0 19.54a13.94 13.94 0 0 0 7.55 2.21c9.14 0 14.3-7.72 14-14.64.95-.7 1.79-1.57 2.45-2.55z"/></svg></a><a data-title="YouTube" href="https://www.youtube.com/lorenzowoodmusic"><svg aria-label="YouTube" xmlns="http://www.w3.org/2000/svg" viewBox="0 0 24 24"><desc>Lorenzo Wood Music on YouTube</desc><path fill="#b00" d="M4.65 0H6.1l.99 3.7L8 0h1.45L7.79 5.5v3.76H6.35V5.51L4.65 0zm6.6 2.37c-1.12 0-1.86.74-1.86 1.84v3.35c0 1.2.62 1.83 1.86 1.83 1.02 0 1.82-.69 1.82-1.83V4.2c0-1.07-.8-1.84-1.82-1.84zm.53 5.13c0 .37-.2.65-.53.65-.36 0-.56-.3-.56-.65V4.32c0-.37.17-.65.53-.65.39 0 .56.27.56.65V7.5zm4.73-5.07v5.19c-.16.19-.5.5-.75.5-.27 0-.34-.18-.34-.45V2.43h-1.27v5.71c0 .68.2 1.22.89 1.22.38 0 .92-.2 1.47-.85v.75h1.27V2.43H16.5zm2.2 13.86c-.45 0-.54.31-.54.76v.66h1.07v-.66c0-.44-.1-.76-.53-.76zm-4.7.04a.93.93 0 0 0-.25.2v4.05c.1.1.19.18.28.23.2.1.49.1.62-.07.07-.09.1-.24.1-.45v-3.36a.82.82 0 0 0-.12-.5c-.15-.19-.42-.2-.63-.1zm4.82-5.2a183 183 0 0 0-13.66 0c-2.82.2-3.15 1.9-3.17 6.37.02 4.47.35 6.17 3.17 6.37a183 183 0 0 0 13.66 0c2.82-.2 3.15-1.9 3.17-6.37-.02-4.47-.35-6.17-3.17-6.37zM6.51 21.82H5.15v-7.54H3.74V13h4.18v1.28H6.5v7.54zm4.84 0h-1.2v-.72c-.23.27-.46.47-.7.6-.65.38-1.55.37-1.55-.95v-5.44h1.21v5c0 .25.06.43.32.43.24 0 .57-.3.71-.49v-4.94h1.21v6.5zm4.66-1.35c0 .8-.3 1.43-1.1 1.43-.45 0-.82-.16-1.15-.58v.5h-1.22V13h1.22v2.84c.27-.33.64-.6 1.07-.6.89 0 1.18.74 1.18 1.62v3.61zm4.47-1.75h-2.31v1.23c0 .49.04.9.53.9.5 0 .54-.34.54-.9v-.45h1.24v.48c0 1.26-.53 2.02-1.81 2.02-1.16 0-1.75-.85-1.75-2.02v-2.92c0-1.13.75-1.91 1.84-1.91 1.16 0 1.72.74 1.72 1.91v1.66z"/></svg></a><a data-title="SoundCloud" href="https://soundcloud.com/LorenzoWoodMusic"><svg aria-label="SoundCloud" xmlns="http://www.w3.org/2000/svg" viewBox="0 0 24 24"><desc>Lorenzo Wood Music on SoundCloud</desc><path fill="#f50" d="M7 17.94H6V9.87c.3-.23.64-.43 1-.56v8.63zm3 0h1V8.7c-.23.27-.44.55-.62.86L10 9.4v8.55zm-2 0h1V9.09c-.5-.08-.62-.05-1 0v8.85zm-4 0h1v-7.02a4.7 4.7 0 0 0-.7 1.53l-.3-.18v5.67zm-3-5.25a3.07 3.07 0 0 0 0 4.53V12.7zm18.88-.67c-.2-2.84-2.4-5.08-5.12-5.08-1.02 0-1.96.33-2.76.88v10.12h9.09c1.6 0 2.91-1.4 2.91-3.1 0-2.24-2.17-3.78-4.12-2.82zM3 11.99c-.3-.02-.53-.03-1 .12v5.7c.45.14.64.13 1 .13v-5.95z"/></svg></a><a data-title="Reverb Nation" href="https://www.reverbnation.com/lorenzowoodmusic"><svg aria-label="ReberbNation" xmlns="http://www.w3.org/2000/svg" viewBox="0 0 24 24"><desc>Lorenzo Wood Music on ReverbNation</desc><ellipse cx="12" cy="12" rx="12" ry="12" fill="#DB9834"/><path d="M17.95 10.72l-2.84 5.06.63 2.07L12.75 24s-5.23.64-8.9-3.2C.17 16.96.07 14.02.07 14.02l11.89-7.68.08 5.52 5.91-1.14z" fill="#A37122"/><path d="M8.3 17.89l3.72-2.75 3.72 2.75-1.42-4.45 3.71-2.75h-4.59l-1.42-4.44-1.42 4.44H6.01l3.72 2.75L8.3 17.9z" fill="#FFF"/></svg></a><a data-title="Bands in Town" href="https://bandsintown.com/lorenzowoodmusic"><svg aria-label="Bands in Town" xmlns="http://www.w3.org/2000/svg" viewBox="0 0 24 24"><desc>Lorenzo Wood Music on Bands in Town</desc><path fill="#00AEA8" d="M0 0h24v24H0z"/><path fill="#FFF" d="M12.5 7.5h4v5h-4zm4.5-5h4v10h-4z"/><path d="M3.5 3v18.5H21V13H8v4h9v.5H7.5V3h-4z" fill="#FFF"/><path fill="#FFF" d="M8 7.5h4v5H8z"/></svg></a></div><p><b>Copyright © 2017-2019 Lorenzo Wood</b><span class="dimmer">&nbsp; Photo credits: Claire Ashcraft, Nikki Maguire, Dave Weiland (See individual file names), Lucy Gigli (if not specified in file name)</span></p><p class="js-required">JavaScript is disabled in your browser; please enable it to see missing content.
 </p></footer><script>// Modernizer-like
 // Remove "no-js" class from element, if it exists
 document.documentElement.className = document.documentElement.className.replace("no-js","js");</script></body></html>
